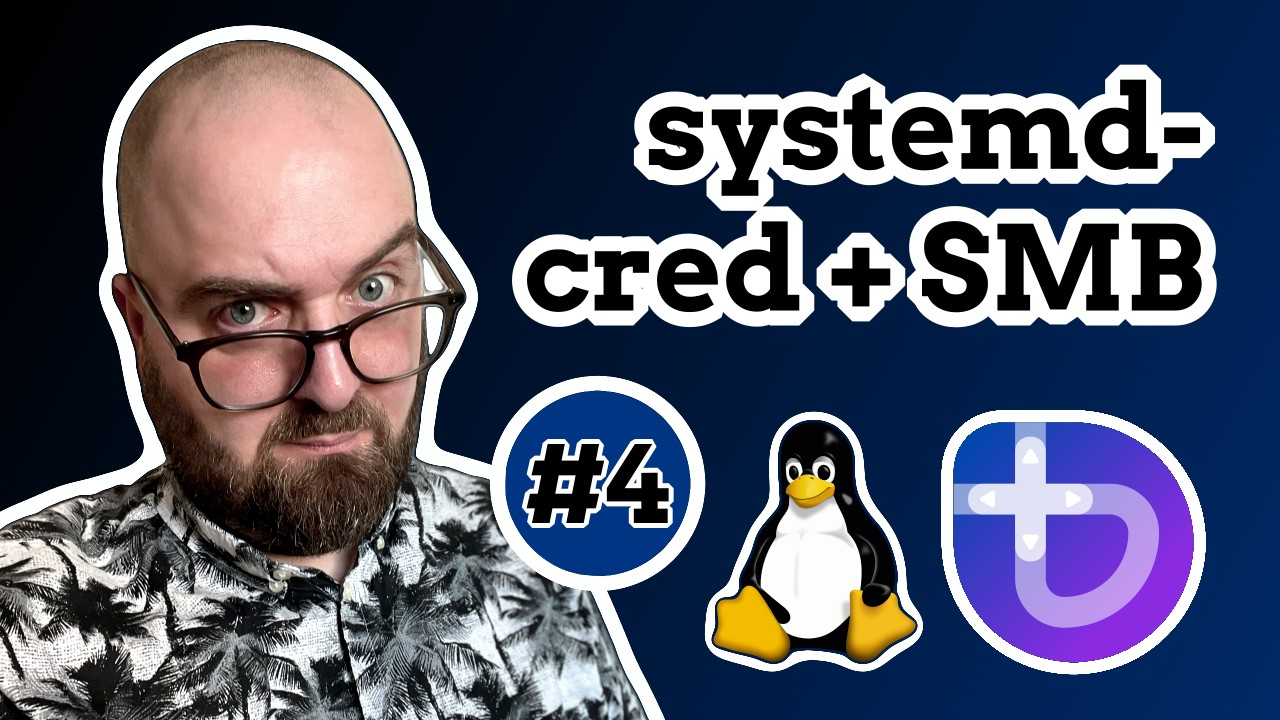
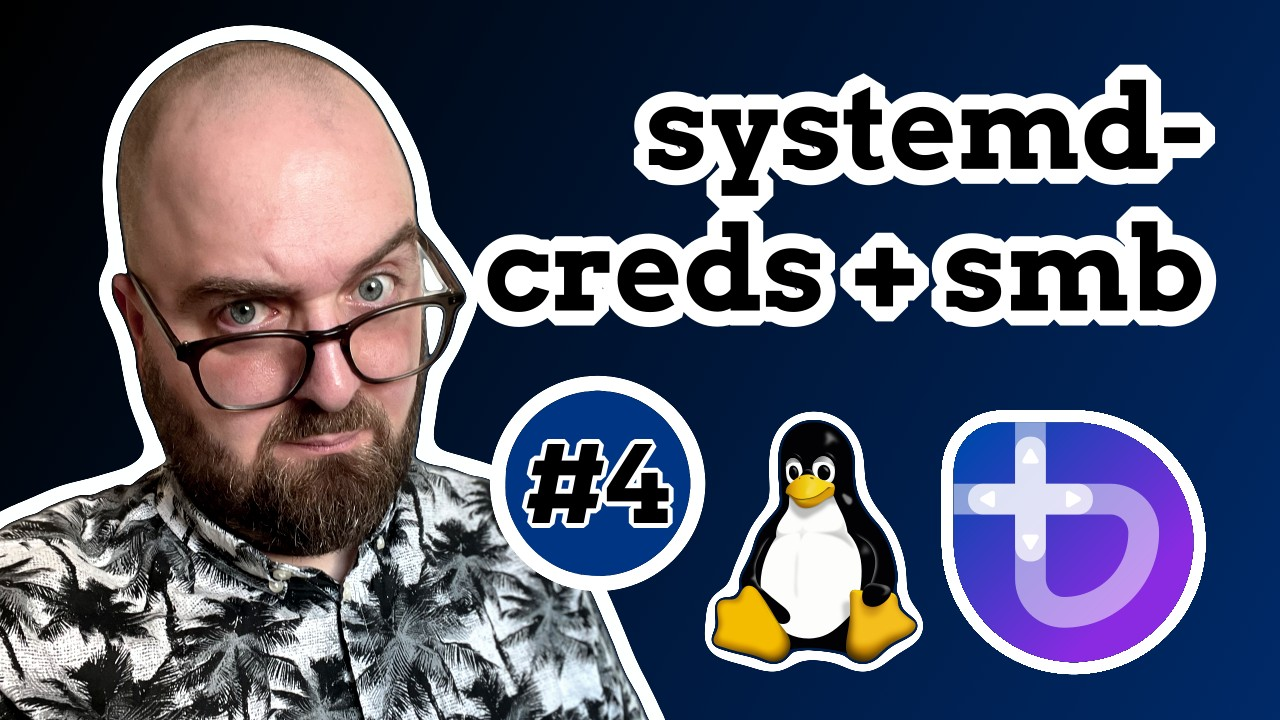
chore: add video id to yotld #4, correct typo in thumbnail

Changed region(s): [[0.3438, 0.275, 0.9688, 0.4583]]

diff --git a/content/posts/yotld-part-4-samba-systemd-creds/index.md b/content/posts/yotld-part-4-samba-systemd-creds/index.md
@@ -12,7 +12,7 @@ Accessing network shares via Dolphin doesn't always work, since there is no fixe
 
 <div style="position: relative; padding-bottom: 56.25%; height: 0; overflow: hidden; max-width: 100%;">
     <iframe
-        src="https://www.youtube.com/embed/TBD"
+        src="https://www.youtube.com/embed/E04PTZwnA7E"
         frameborder="0"
         allow="accelerometer; autoplay; clipboard-write; encrypted-media; gyroscope; picture-in-picture; web-share"
         referrerpolicy="strict-origin-when-cross-origin"
